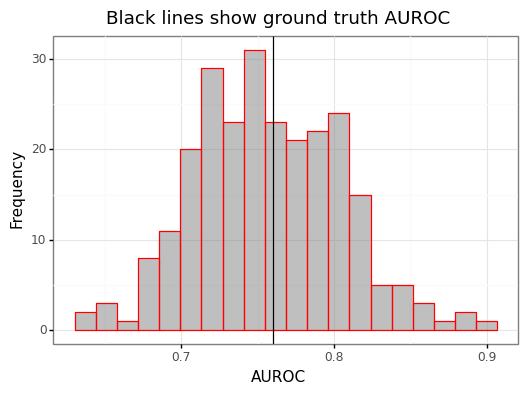
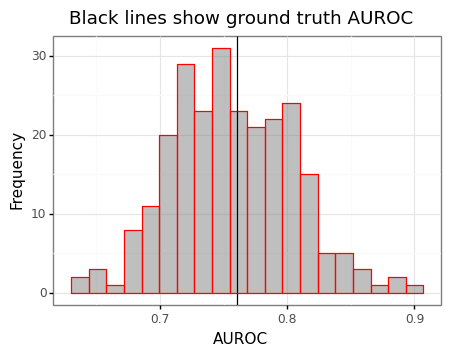
updating plots

Changed region(s): [[0.0, 0.0309, 0.9956, 0.927], [0.4667, 0.927, 0.5911, 0.9888], [0.6222, 0.1545, 0.6533, 0.1854]]

diff --git a/run_sims.py b/run_sims.py
@@ -2,8 +2,12 @@ import os
 import numpy as np
 import pandas as pd
 import plotnine as pn
+import patchworklib as pw
+from matplotlib import rc
 from time import time
-from funs_support import makeifnot
+from scipy.stats import skewnorm, norm
+from scipy.optimize import minimize_scalar
+from funs_support import makeifnot, gg_save, grid_save, interp_df
 from funs_stats import dgp_bin, emp_roc_curve, auc_rank, get_CI
 dir_base = os.getcwd()
 dir_figures = os.path.join(dir_base, 'figures')
@@ -12,6 +16,73 @@ makeifnot(dir_figures)
 # Tidy up the different labels
 di_msr = {'sens':'Sensitivity', 'spec':'Specificity', 'thresh':'Threshold'}
 di_method = {'basic':'Basic', 'quantile':'Quantile', 'expanded':'Quantile (t-adj)', 'studentized':'Studentized', 'bca':'BCa'}
+
+
+############################
+# --- (0) ROC EXAMPLES --- #
+
+# Function to approximate one skew normal being larger than another
+def sn_ineq(mu, skew, scale, alpha, n_points):
+    dist_y1 = skewnorm(a=skew, loc=mu, scale=scale)
+    dist_y0 = skewnorm(a=skew, loc=0, scale=scale)
+    x_seq = np.linspace(dist_y0.ppf(alpha), dist_y1.ppf(1-alpha), n_points)
+    dx = x_seq[1] - x_seq[0]
+    prob = np.sum(dist_y0.cdf(x_seq)*dist_y1.pdf(x_seq)*dx)
+    return prob
+
+def find_auroc(auc, skew, scale=1, alpha=0.001, n_points=100):
+    optim = minimize_scalar(fun=lambda mu: (auc - sn_ineq(mu, skew, scale, alpha, n_points))**2,method='brent')
+    assert optim.fun < 1e-10
+    mu_star = optim.x
+    return mu_star
+    
+n1, n0 = 1000, 1000
+labels = np.append(np.repeat(1,n1), np.repeat(0,n0))
+auc_target = 0.75
+skew_seq = [-4, 0, 4]
+di_skew = dict(zip(skew_seq, ['Left-skew','No skew','Right skew']))
+holder_dist, holder_roc = [], []
+np.random.seed(n1)
+for skew in skew_seq:
+    skew_lbl = di_skew[skew]
+    # Find AUROC equivalent mean
+    mu_skew = find_auroc(auc=auc_target, skew=skew)
+    dist_y1 = skewnorm(a=skew, loc=mu_skew, scale=1)
+    dist_y0 = skewnorm(a=skew, loc=0, scale=1)
+    scores = np.append(dist_y1.rvs(n1), dist_y0.rvs(n0))
+    emp_auc = auc_rank(labels, scores)
+    print('Skew = %s, AUROC=%0.3f' % (skew_lbl, emp_auc))
+    df_dist = pd.DataFrame({'skew':skew_lbl,'y':labels, 's':scores})
+    df_roc = emp_roc_curve(labels, scores).assign(skew=skew_lbl)
+    holder_dist.append(df_dist)
+    holder_roc.append(df_roc)
+# Merge
+roc_skew = pd.concat(holder_roc).reset_index(drop=True)
+dist_skew = pd.concat(holder_dist).reset_index(drop=True)
+auroc_skew = dist_skew.groupby('skew').apply(lambda x: auc_rank(x['y'],x['s'])).reset_index()
+auroc_skew.rename(columns={0:'auroc'}, inplace=True)
+
+# (i) Empirical ROC curves and skew
+gg_roc_skew = (pn.ggplot(roc_skew,pn.aes(x='1-spec',y='sens',color='skew')) + 
+    pn.theme_bw() + pn.labs(x='1-Specificity',y='Sensitivity') + 
+    pn.geom_text(pn.aes(x=0.25,y=0.95,label='100*auroc'),size=9,data=auroc_skew,format_string='AUROC={:.1f}%') + 
+    pn.facet_wrap('~skew') + pn.geom_step() + pn.ggtitle('A') + 
+    pn.theme(legend_position='none'))
+# gg_save('gg_roc_skew.png', dir_figures, gg_roc_skew, 9, 3)
+
+# (ii) Empirical score distribution and skew
+gg_dist_skew = (pn.ggplot(dist_skew,pn.aes(x='s',fill='y.astype(str)')) + 
+    pn.theme_bw() + pn.labs(x='Scores',y='Frequency') + 
+    pn.theme(legend_position=(0.3, -0.03), legend_direction='horizontal',legend_box_margin=0) + 
+    pn.facet_wrap('~skew') + pn.ggtitle('B') + 
+    pn.geom_histogram(position='identity',color='black',alpha=0.5,bins=25) + 
+    pn.scale_fill_discrete(name='Label'))
+# gg_save('gg_dist_skew.png', dir_figures, gg_dist_skew, 9, 3.25)
+# Combine both plots
+g1 = pw.load_ggplot(gg_roc_skew, figsize=(9,3))
+g2 = pw.load_ggplot(gg_dist_skew, figsize=(9,3))
+gg_roc_dist_skew = pw.vstack(g2, g1, margin=0.25, adjust=False)
+grid_save('gg_roc_dist_skew.png', dir_figures, gg_roc_dist_skew)
 
 
 ##############################################
@@ -44,7 +115,7 @@ gg_roc_gt = (pn.ggplot(df_roc,pn.aes(x='1-spec',y='sens',size='tt',color='tt',al
     pn.scale_color_manual(name=' ',values=['black','grey']) + 
     pn.scale_alpha_manual(name=' ',values=[1,0.1]) + 
     pn.scale_size_manual(name=' ',values=[2,0.5]))
-gg_roc_gt.save(os.path.join(dir_figures,'gg_roc_gt.png'),height=4,width=6)
+gg_save('gg_roc_gt.png', dir_figures, gg_roc_gt, 5, 3.5)
 
 # (ii) Empirical AUROC to actual
 gg_auc_gt = (pn.ggplot(df_auc,pn.aes(x='auc')) + pn.theme_bw() + 
@@ -52,21 +123,62 @@ gg_auc_gt = (pn.ggplot(df_auc,pn.aes(x='auc')) + pn.theme_bw() +
     pn.geom_vline(pn.aes(xintercept='gt'),color='black') + 
     pn.labs(x='AUROC',y='Frequency') + 
     pn.ggtitle('Black lines show ground truth AUROC'))
-gg_auc_gt.save(os.path.join(dir_figures,'gg_auc_gt.png'),height=4,width=6)
+gg_save('gg_auc_gt.png', dir_figures, gg_auc_gt, 5, 3.5)
 
 # (iii) Operating threshold on x-axis
+sens_target = 0.5
 df_emp_thresh = df_roc.melt(['sim','thresh','tt'], None, 'msr', 'val')
 df_emp_thresh['msr'] = df_emp_thresh['msr'].map(di_msr)
 
-gg_roc_tresh = (pn.ggplot(df_emp_thresh,pn.aes(x='thresh',y='val',size='tt',color='tt',alpha='tt',group='sim')) + 
-    pn.theme_bw() + pn.labs(x='Operating threshold',y='Value') + 
-    pn.ggtitle('Operating threshold curve underlying AUROC') + 
-    pn.geom_step() + pn.facet_wrap('~msr') + 
-    pn.theme(legend_position=(0.5,-0.01),legend_direction='horizontal') + 
+# (a) What threshold is chosen to get to sens_target?
+thresh_sens = df_emp_thresh.query('sim>=0 & msr=="Sensitivity"').drop(columns=['msr','tt'])
+thresh_spec = df_emp_thresh.query('sim>=0 & msr=="Specificity"').drop(columns=['msr','tt'])
+thresh_chosen = interp_df(thresh_sens, 'val', 'thresh', sens_target, 'sim')
+thresh_spec = thresh_spec.merge(thresh_chosen)
+thresh_spec = thresh_spec.groupby('sim').apply(lambda x: interp_df(x, 'thresh', 'val', x['thresh_interp'].values[0], 'sim'))
+thresh_spec.reset_index(drop=True, inplace=True)
+thresh_spec = thresh_spec.rename(columns={'val_interp':'spec'}).assign(msr=di_msr['spec'])
+thresh_chosen = thresh_chosen.rename(columns={'thresh_interp':'thresh'}).assign(msr=di_msr['sens'])
+thresh_spec = thresh_spec.merge(thresh_chosen.drop(columns='msr'))
+# Long-run sensitivity
+thresh_chosen = thresh_chosen.assign(sens=lambda x: 1-norm(loc=mu).cdf(x['thresh']))
+
+# (a) Intersection of thresholds to 50% sensitivity
+gtit = 'A: Empirical threshold choice for %i%% sensivitiy' % (100*sens_target)
+gg_roc_thresh = (pn.ggplot(df_emp_thresh,pn.aes(x='val',y='thresh')) + 
+    pn.theme_bw() + pn.labs(y='Operating threshold',x='Performance target') + 
+    pn.ggtitle(gtit) + pn.facet_wrap('~msr') + 
+    pn.geom_step(pn.aes(size='tt',color='tt',alpha='tt',group='sim')) + 
+    pn.geom_point(pn.aes(x=sens_target,y='thresh'),size=0.5,alpha=0.5,color='red',data=thresh_chosen) + 
+    pn.geom_point(pn.aes(x='spec',y='thresh'),size=0.5,alpha=0.5,color='blue',data=thresh_spec) + 
+    # pn.theme(legend_position=(0.5,-0.05),legend_direction='horizontal') + 
     pn.scale_color_manual(name=' ',values=['black','grey']) + 
-    pn.scale_alpha_manual(name=' ',values=[1,0.1]) + 
+    pn.scale_alpha_manual(name=' ',values=[1,0.2]) + 
     pn.scale_size_manual(name=' ',values=[1.5,0.5]))
-gg_roc_tresh.save(os.path.join(dir_figures,'gg_roc_tresh.png'),height=4,width=10)
+# gg_save('gg_roc_thresh.png', dir_figures, gg_roc_thresh, 9, 3.5)
+
+# (b) Distribution of thresholds
+gg_dist_thresh = (pn.ggplot(thresh_chosen, pn.aes(x='thresh')) + pn.theme_bw() + 
+    pn.geom_histogram(fill='grey',alpha=0.5,color='red',bins=20) + 
+    pn.labs(x='Threshold',y='Frequency',title='B: Threshold distribution'))
+# gg_save('gg_dist_thresh.png', dir_figures, gg_dist_thresh, 4.5, 3.5)
+
+# (c) Distribution of long-run sensitivity
+rc('text', usetex=True)
+gg_dist_sens = (pn.ggplot(thresh_chosen, pn.aes(x='sens')) + pn.theme_bw() + 
+    pn.geom_histogram(fill='grey',alpha=0.5,color='green',bins=20) + 
+    pn.geom_vline(xintercept=sens_target) + 
+    pn.ggtitle('C: Expected sensitivity') + 
+    pn.labs(x='$P(x_{i1} \geq \hat{t})$',y='Frequency'))
+# gg_save('gg_dist_sens.png', dir_figures, gg_dist_sens, 4.5, 3.5)
+rc('text', usetex=False)
+
+g1 = pw.load_ggplot(gg_roc_thresh, figsize=(9,3))
+g2 = pw.load_ggplot(gg_dist_thresh, figsize=(4.5,3.5))
+g3 = pw.load_ggplot(gg_dist_sens, figsize=(4.5,3.5))
+
+gg_roc_process = g1 / (g2 | g3)
+grid_save('gg_roc_process.png', dir_figures, gg_roc_process)
 
 
 ###################################
@@ -272,3 +384,8 @@ gg_power_margin = (pn.ggplot(res_static, pn.aes(x='margin',fill='n_test')) +
 gg_power_margin.save(os.path.join(dir_figures,'gg_power_margin.png'),height=height,width=width)
 
 
+############################
+# --- (5) ROC & POWER  --- #
+
+
+# 3. (i) Oracle ROC curve and power of the trial , (ii) CI around some randomly chosen points -->

diff --git a/funs_support.py b/funs_support.py
@@ -1,4 +1,6 @@
 import os
+import numpy as np
+import pandas as pd
 
 def makeifnot(path):
     if not os.path.exists(path):
@@ -8,7 +10,46 @@ def round_up(num, factor):
     w, r = divmod(num, factor)
     return factor*(w + int(r>0))
 
+def gg_save(fn, fold, gg, width, height):
+    path = os.path.join(fold, fn)
+    if os.path.exists(path):
+        os.remove(path)
+    gg.save(path, width=width, height=height, limitsize=False)
 
-
-
-
+def grid_save(fn, fold, gg):
+    path = os.path.join(fold, fn)
+    if os.path.exists(path):
+        os.remove(path)
+    gg.savefig(path)
+    
+# df=thresh_match; cn_x='val'; cn_y='thresh'; target_y=1.06; groups=('sim',)
+def interp_df(df, cn_y, cn_x, target_y, *groups):
+    assert df.columns.isin([cn_y, cn_x]).sum() == 2, 'cn_y and cn_x must be columns in df'
+    if len(groups) == 0:
+        df = df.assign(gg='group1')
+        groups = ['group1']
+    else:
+        groups = list(groups)
+    # Sort data and reset index
+    df = df.sort_values(groups+[cn_y]).reset_index(drop=True)
+    # Get value just above and below target_y
+    df = df.assign(is_below=lambda x: np.where(x[cn_y] < target_y, 'below', 'above'))
+    t1 = df.groupby(groups+['is_below']).apply(lambda x: x.loc[x[cn_y].idxmax()])
+    t2 = df.groupby(groups+['is_below']).apply(lambda x: x.loc[x[cn_y].idxmin()])
+    t1 = t1.reset_index(drop=True).query('is_below=="below"')
+    t2 = t2.reset_index(drop=True).query('is_below=="above"')
+    # Pivot wide
+    dat = pd.concat(objs=[t1, t2], axis=0)
+    dat = dat.pivot_table([cn_y, cn_x], groups, 'is_below')
+    dat.columns = ['_'.join(col).strip() for col in dat.columns.values]
+    cn_x_below = cn_x+'_below'
+    cn_x_above = cn_x+'_above'
+    cn_y_below = cn_y+'_below'
+    cn_y_above = cn_y+'_above'
+    cn_x_interp = cn_x+'_interp'
+    # Calculate the slope
+    dat = dat.assign(slope=lambda x: (x[cn_y_above]-x[cn_y_below])/(x[cn_x_above]-x[cn_x_below]))
+    dat = dat.assign(interp=lambda x: (x[cn_y_above]-target_y)/x['slope']+x[cn_x_above] )
+    dat = dat.reset_index().rename(columns={'interp':cn_x_interp})
+    dat = dat[groups+[cn_x_interp]]
+    return dat

diff --git a/funs_stats.py b/funs_stats.py
@@ -15,10 +15,29 @@ def auc_rank(y, s):
     return auc
 
 # SKLearn wrapper to calculate empirical ROC
+# y=test_i['y'];s=test_i['s']
 def emp_roc_curve(y, s):
-    fpr, sens, thresh = sk_roc_curve(y, s)
-    spec = 1-fpr
-    res = pd.DataFrame({'thresh':thresh, 'sens':sens, 'spec':spec})
+    s1, s0 = s[y == 1], s[y == 0]
+    s1 = np.flip(np.sort(np.unique(s1)))
+    s0 = np.sort(np.unique(s0))
+    n1, n0 = len(s1), len(s0)
+    # (i) Calculate empirical sensitivity
+    df_sens = pd.DataFrame({'val':(np.arange(n1)+1)/n1,'thresh':s1, 'tt':'sens'})
+    t1, t2 = df_sens['thresh'].head(2).values
+    # Assumes different in smallest and second smallest threshold will be the next score
+    df_sens = df_sens.append(pd.Series({'val':0, 'thresh':2*t1-t2, 'tt':'sens'}),ignore_index=True)
+    # (ii) Calculate empirical specificity
+    df_spec = pd.DataFrame({'val':np.arange(n0)/n0,'thresh':s0, 'tt':'spec'})
+    t1, t2 = df_spec['thresh'].tail(2).values
+    df_spec = df_spec.append(pd.Series({'val':1, 'thresh':2*t2-t1, 'tt':'spec'}),ignore_index=True)
+    # Merge and fill missing
+    res = pd.concat(objs=[df_sens, df_spec],axis=0)
+    res = res.pivot('thresh','tt','val').reset_index()
+    # Assumes that positive score has largest, and negative score has smallest
+    if not np.isnan(res['sens'][0]) & np.isnan(res['spec'].values[-1]):
+        print('Warning: positive score does not have largest or negative score does not have smallest!')
+    res['sens'] = res['sens'].fillna(method='bfill')
+    res['spec'] = res['spec'].fillna(method='ffill')
     return res
 
 # Add on CIs to a dataframe
